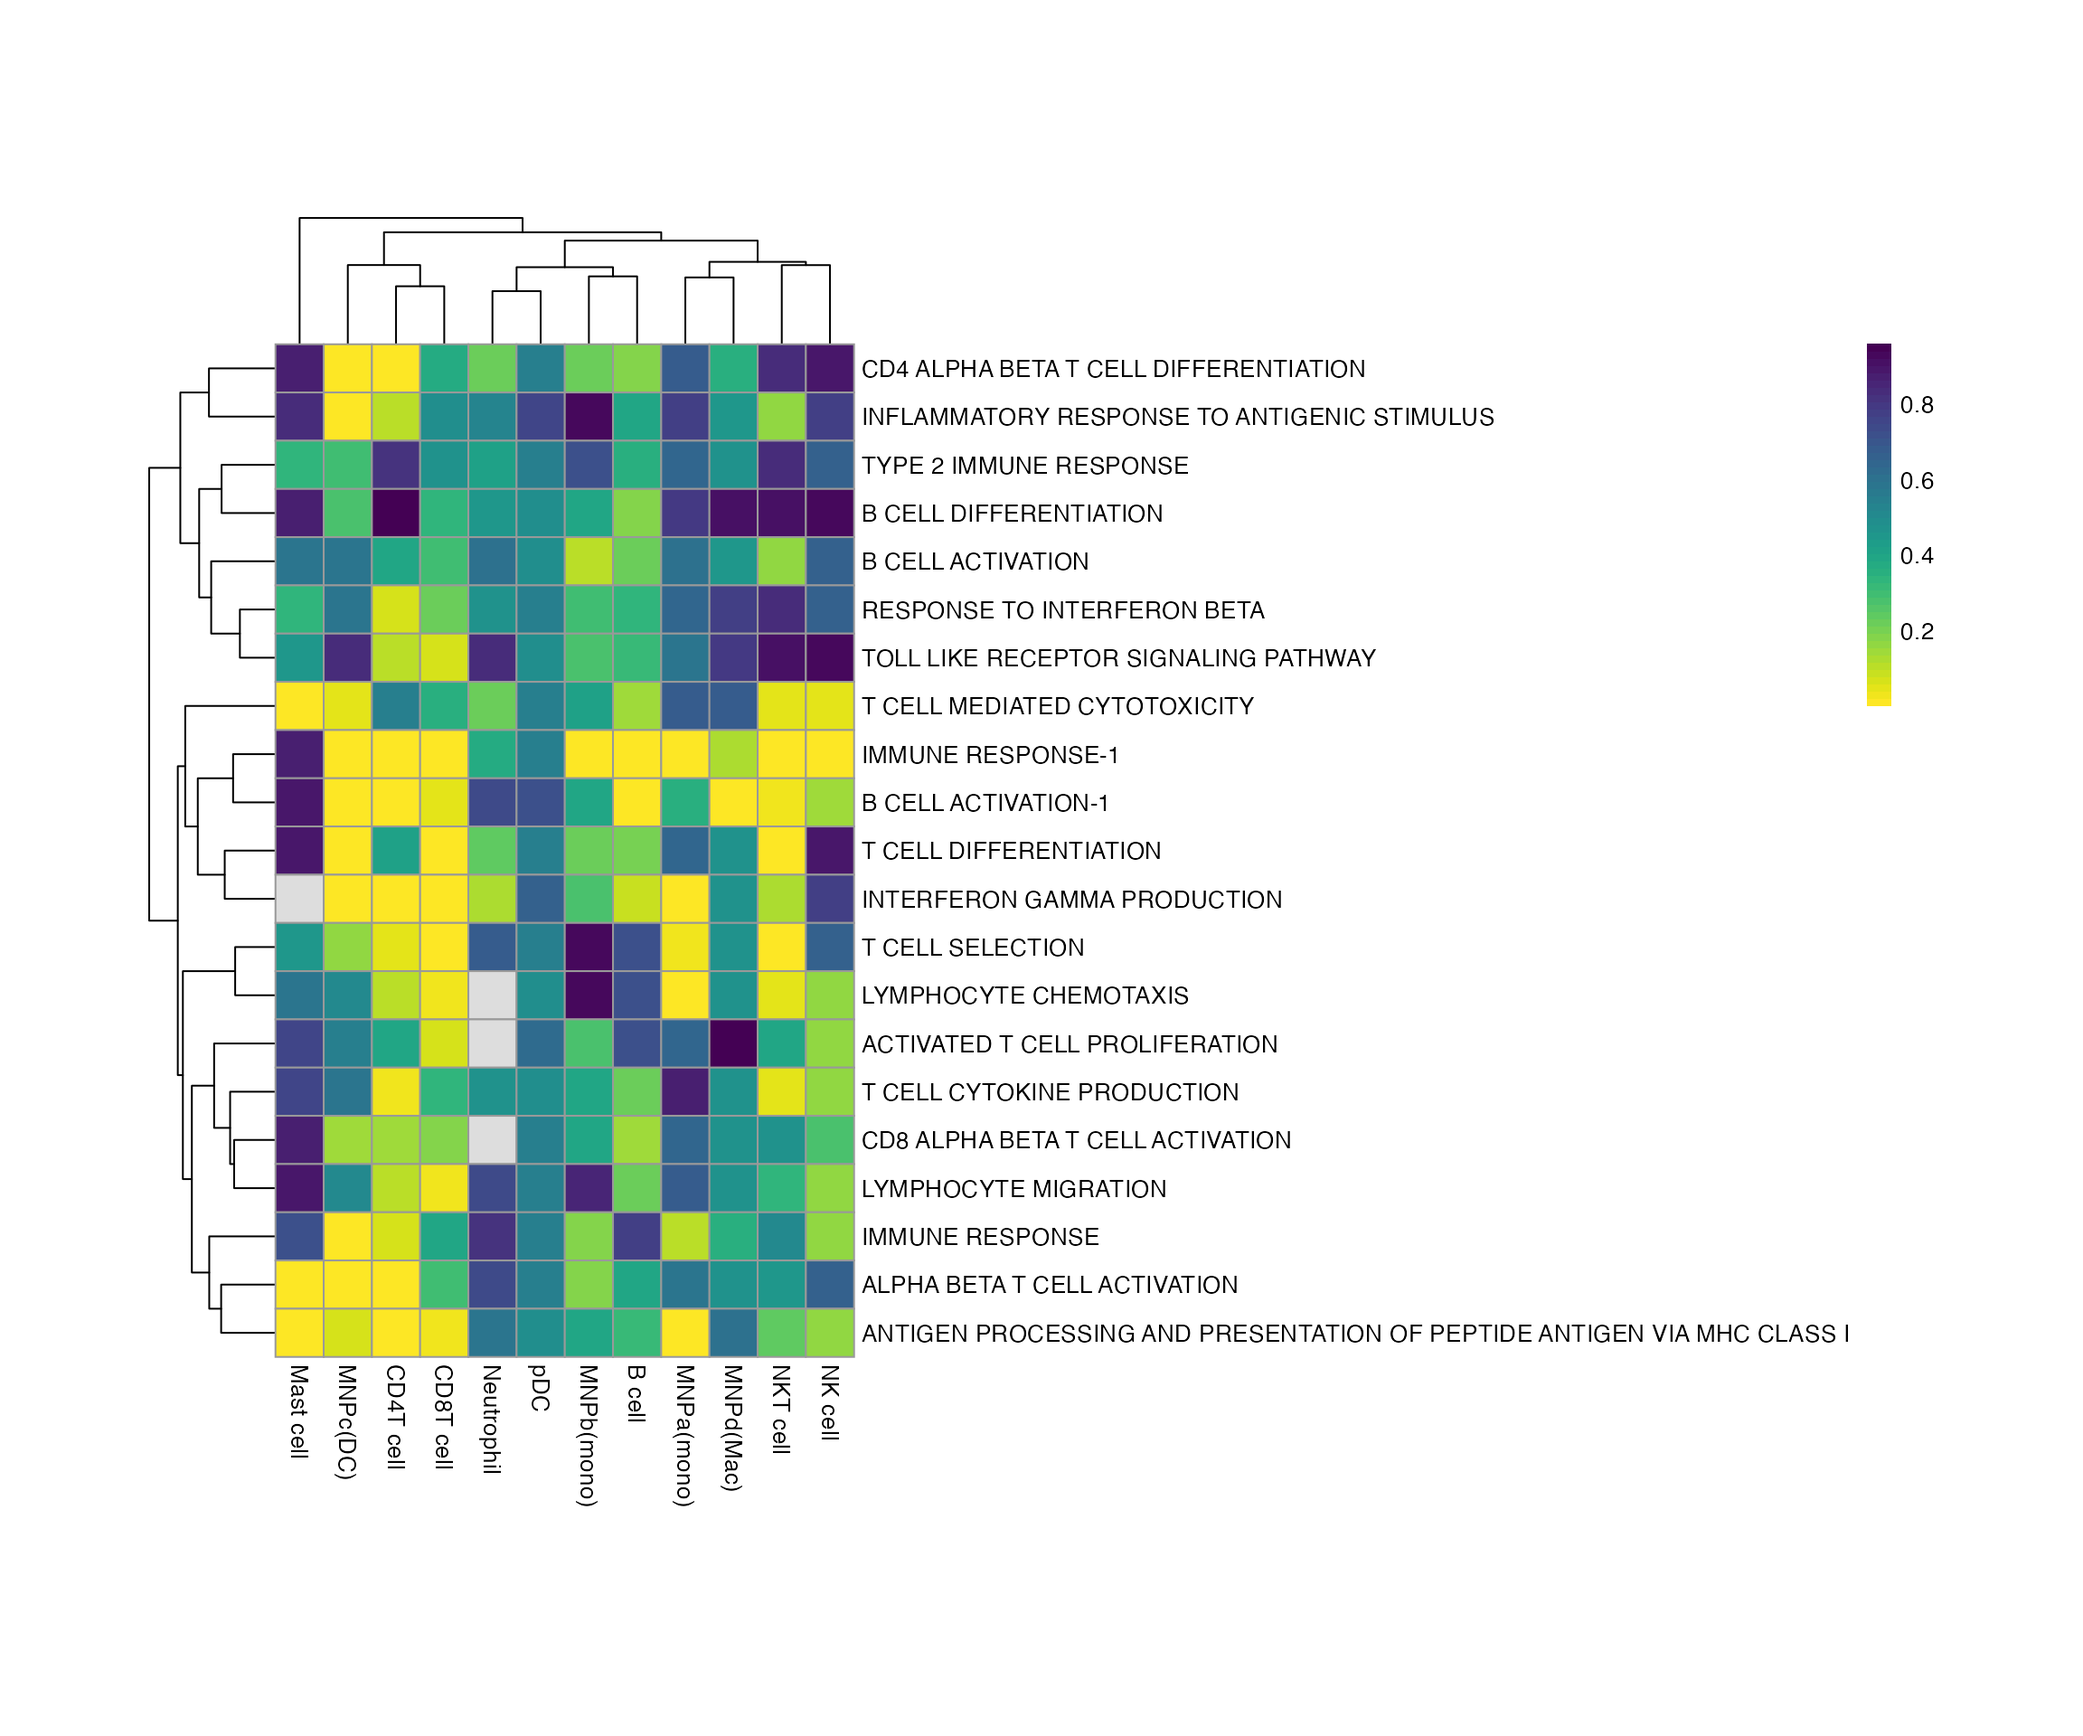
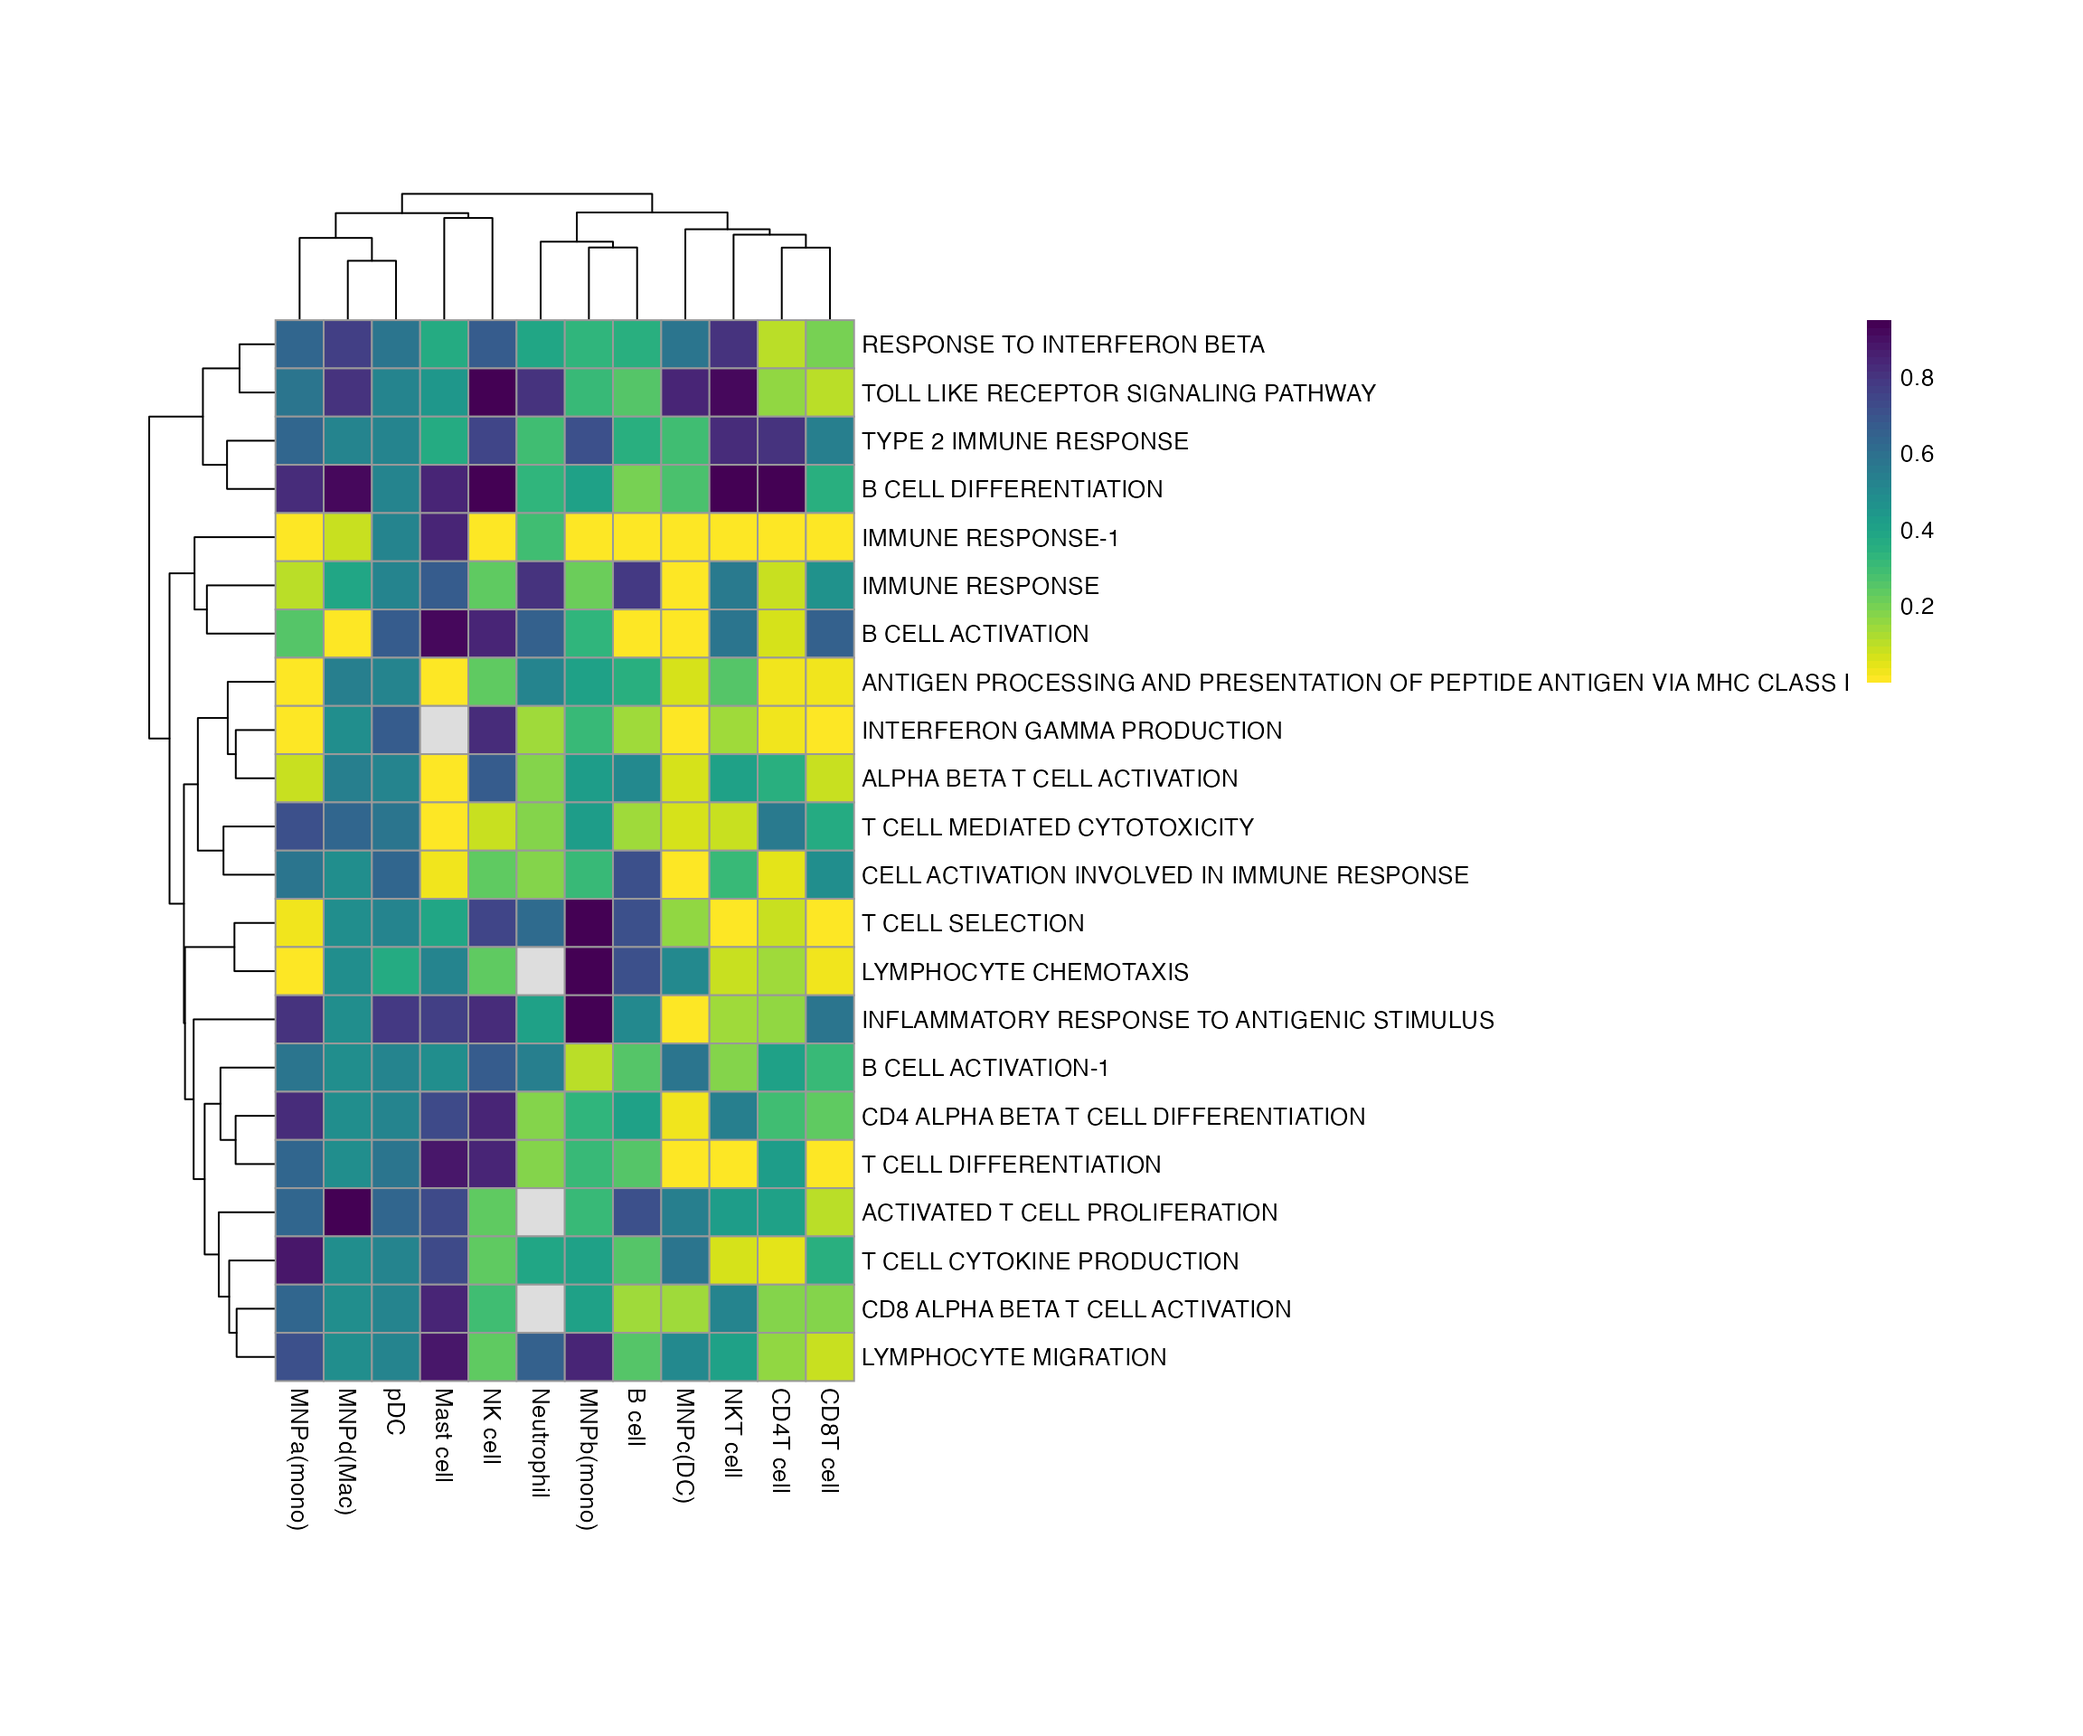
Built site for bowerbird: 0.0.2@6b26e6f

diff --git a/articles/bowerbird_vignette.html b/articles/bowerbird_vignette.html
@@ -160,12 +160,12 @@
 <span class="va">bwr</span> <span class="op">&lt;-</span> <span class="fu"><a href="../reference/snn_graph.html">snn_graph</a></span><span class="op">(</span><span class="va">bwr</span><span class="op">)</span>
 <span class="va">bwr</span> <span class="op">&lt;-</span> <span class="fu"><a href="../reference/find_clusters.html">find_clusters</a></span><span class="op">(</span><span class="va">bwr</span><span class="op">)</span>
 <span class="va">bwr</span> <span class="op">&lt;-</span> <span class="fu">summarize_clusters</span><span class="op">(</span><span class="va">bwr</span><span class="op">)</span>
-<span class="co">#&gt; Downloading udpipe model from https://raw.githubusercontent.com/jwijffels/udpipe.models.ud.2.5/master/inst/udpipe-ud-2.5-191206/english-ewt-ud-2.5-191206.udpipe to /var/folders/24/8k48jl6d249_n_qfxwsl6xvm0000gn/T//RtmpTWtwR1/english-ewt-ud-2.5-191206.udpipe</span>
+<span class="co">#&gt; Downloading udpipe model from https://raw.githubusercontent.com/jwijffels/udpipe.models.ud.2.5/master/inst/udpipe-ud-2.5-191206/english-ewt-ud-2.5-191206.udpipe to /var/folders/24/8k48jl6d249_n_qfxwsl6xvm0000gn/T//Rtmpd1BMoC/english-ewt-ud-2.5-191206.udpipe</span>
 <span class="co">#&gt;  - This model has been trained on version 2.5 of data from https://universaldependencies.org</span>
 <span class="co">#&gt;  - The model is distributed under the CC-BY-SA-NC license: https://creativecommons.org/licenses/by-nc-sa/4.0</span>
 <span class="co">#&gt;  - Visit https://github.com/jwijffels/udpipe.models.ud.2.5 for model license details.</span>
 <span class="co">#&gt;  - For a list of all models and their licenses (most models you can download with this package have either a CC-BY-SA or a CC-BY-SA-NC license) read the documentation at ?udpipe_download_model. For building your own models: visit the documentation by typing vignette('udpipe-train', package = 'udpipe')</span>
-<span class="co">#&gt; Downloading finished, model stored at '/var/folders/24/8k48jl6d249_n_qfxwsl6xvm0000gn/T//RtmpTWtwR1/english-ewt-ud-2.5-191206.udpipe'</span></code></pre></div>
+<span class="co">#&gt; Downloading finished, model stored at '/var/folders/24/8k48jl6d249_n_qfxwsl6xvm0000gn/T//Rtmpd1BMoC/english-ewt-ud-2.5-191206.udpipe'</span></code></pre></div>
 <p>Or extracting from <code>msigdbr</code>.</p>
 <div class="sourceCode" id="cb7"><pre class="downlit sourceCode r">
 <code class="sourceCode R"><span class="kw"><a href="https://rdrr.io/r/base/library.html">library</a></span><span class="op">(</span><span class="va"><a href="https://igordot.github.io/msigdbr/">msigdbr</a></span><span class="op">)</span>
@@ -181,52 +181,53 @@
 <span class="va">bwr</span> <span class="op">&lt;-</span> <span class="fu"><a href="../reference/snn_graph.html">snn_graph</a></span><span class="op">(</span><span class="va">bwr</span><span class="op">)</span>
 <span class="va">bwr</span> <span class="op">&lt;-</span> <span class="fu"><a href="../reference/find_clusters.html">find_clusters</a></span><span class="op">(</span><span class="va">bwr</span><span class="op">)</span>
 <span class="va">bwr</span> <span class="op">&lt;-</span> <span class="fu">summarize_clusters</span><span class="op">(</span><span class="va">bwr</span><span class="op">)</span>
-<span class="co">#&gt; Downloading udpipe model from https://raw.githubusercontent.com/jwijffels/udpipe.models.ud.2.5/master/inst/udpipe-ud-2.5-191206/english-ewt-ud-2.5-191206.udpipe to /var/folders/24/8k48jl6d249_n_qfxwsl6xvm0000gn/T//RtmpTWtwR1/english-ewt-ud-2.5-191206.udpipe</span>
+<span class="co">#&gt; Downloading udpipe model from https://raw.githubusercontent.com/jwijffels/udpipe.models.ud.2.5/master/inst/udpipe-ud-2.5-191206/english-ewt-ud-2.5-191206.udpipe to /var/folders/24/8k48jl6d249_n_qfxwsl6xvm0000gn/T//Rtmpd1BMoC/english-ewt-ud-2.5-191206.udpipe</span>
 <span class="co">#&gt;  - This model has been trained on version 2.5 of data from https://universaldependencies.org</span>
 <span class="co">#&gt;  - The model is distributed under the CC-BY-SA-NC license: https://creativecommons.org/licenses/by-nc-sa/4.0</span>
 <span class="co">#&gt;  - Visit https://github.com/jwijffels/udpipe.models.ud.2.5 for model license details.</span>
 <span class="co">#&gt;  - For a list of all models and their licenses (most models you can download with this package have either a CC-BY-SA or a CC-BY-SA-NC license) read the documentation at ?udpipe_download_model. For building your own models: visit the documentation by typing vignette('udpipe-train', package = 'udpipe')</span>
-<span class="co">#&gt; Downloading finished, model stored at '/var/folders/24/8k48jl6d249_n_qfxwsl6xvm0000gn/T//RtmpTWtwR1/english-ewt-ud-2.5-191206.udpipe'</span></code></pre></div>
+<span class="co">#&gt; Downloading finished, model stored at '/var/folders/24/8k48jl6d249_n_qfxwsl6xvm0000gn/T//Rtmpd1BMoC/english-ewt-ud-2.5-191206.udpipe'</span></code></pre></div>
 <p>So what has actually happened? Well, basically <code>bowerbird</code> has learnt which gene sets share more genes with each other, clustered them together and learnt a new summary term.</p>
 <div class="sourceCode" id="cb8"><pre class="downlit sourceCode r">
 <code class="sourceCode R"><span class="va">bwr</span>
 <span class="co">#&gt; BOWER class</span>
 <span class="co">#&gt; number of genesets:  265 </span>
 <span class="co">#&gt; genesets kNN Graph: </span>
-<span class="co">#&gt; IGRAPH a646756 UNW- 265 843 -- </span>
+<span class="co">#&gt; IGRAPH 7fb2d32 UNW- 265 843 -- </span>
 <span class="co">#&gt; + attr: name (v/c), cluster (v/n), geneset_size (v/n), terms (v/c),</span>
 <span class="co">#&gt; | labels (v/c), weight (e/n)</span>
-<span class="co">#&gt; + edges from a646756 (vertex names):</span>
+<span class="co">#&gt; + edges from 7fb2d32 (vertex names):</span>
 <span class="co">#&gt; [1] GOBP_ACTIVATED_T_CELL_PROLIFERATION--GOBP_CD8_POSITIVE_ALPHA_BETA_T_CELL_DIFFERENTIATION          </span>
 <span class="co">#&gt; [2] GOBP_ACTIVATED_T_CELL_PROLIFERATION--GOBP_NEGATIVE_REGULATION_OF_ACTIVATED_T_CELL_PROLIFERATION   </span>
 <span class="co">#&gt; [3] GOBP_ACTIVATED_T_CELL_PROLIFERATION--GOBP_NEGATIVE_REGULATION_OF_LYMPHOCYTE_DIFFERENTIATION       </span>
 <span class="co">#&gt; [4] GOBP_ACTIVATED_T_CELL_PROLIFERATION--GOBP_NEGATIVE_REGULATION_OF_T_CELL_RECEPTOR_SIGNALING_PATHWAY</span>
 <span class="co">#&gt; [5] GOBP_ACTIVATION_OF_IMMUNE_RESPONSE --GOBP_ACTIVATION_OF_INNATE_IMMUNE_RESPONSE                    </span>
 <span class="co">#&gt; + ... omitted several edges</span>
-<span class="co">#&gt; number of geneset clusters:  21 </span>
+<span class="co">#&gt; number of geneset clusters:  22 </span>
 <span class="co">#&gt; Core genes:</span>
 <span class="co">#&gt;  First six genes shown</span>
 <span class="co">#&gt;   IMMUNE RESPONSE-1 : AIM2 BCL10 BTRC CARD11 CARD9 CD209 ...</span>
-<span class="co">#&gt;   CD4 ALPHA BETA T CELL DIFFERENTIATION : ANXA1 ATP7A BATF BCL3 BCL6 CBFB ...</span>
 <span class="co">#&gt;   TYPE 2 IMMUNE RESPONSE : IL4 PLCL2 TLR4 IL18 IL18R1 IL4R ...</span>
 <span class="co">#&gt;   IMMUNE RESPONSE : CLNK HLA-E HLA-F IFNA2 IFNB1 IL18 ...</span>
+<span class="co">#&gt;   B CELL ACTIVATION-1 : ADA BAX BCL6 BLK BTK CD74 ...</span>
 <span class="co">#&gt;   RESPONSE TO INTERFERON BETA : BCL2L11 HIF1A MEF2C ADA SOS1 SOS2 ...</span>
-<span class="co">#&gt;   B CELL ACTIVATION : ADA BAX BCL6 BLK BTK CD74 ...</span>
 <span class="co">#&gt;   T CELL MEDIATED CYTOTOXICITY : HLA-A HLA-B HLA-C HLA-E HLA-F HLA-G ...</span>
 <span class="co">#&gt;   CD8 ALPHA BETA T CELL ACTIVATION : HLA-E GATA3 ADCYAP1 BTK C3 CCR7 ...</span>
+<span class="co">#&gt;   CD4 ALPHA BETA T CELL DIFFERENTIATION : ANXA1 ATP7A BATF BCL3 BCL6 CBFB ...</span>
 <span class="co">#&gt;   T CELL DIFFERENTIATION : FCGR2B FGL2 HLA-DOA LILRB2 THBS1 BMP4 ...</span>
 <span class="co">#&gt;   INTERFERON GAMMA PRODUCTION : ABCB9 ACE ACTR10 ACTR1A ACTR1B AP1B1 ...</span>
 <span class="co">#&gt;   TOLL LIKE RECEPTOR SIGNALING PATHWAY : CACTIN PTPRS TICAM1 TLR3 TLR4 TLR9 ...</span>
 <span class="co">#&gt;   T CELL CYTOKINE PRODUCTION : KLRC1 LILRB1 NOD2 PTPRC EGR3 LEF1 ...</span>
 <span class="co">#&gt;   B CELL DIFFERENTIATION : IL10 TLR9 SYK ADA BCL3 C17orf99 ...</span>
 <span class="co">#&gt;   T CELL SELECTION : TOX BCL2 BATF CTSL FOXP3 IL12B ...</span>
-<span class="co">#&gt;   ALPHA BETA T CELL ACTIVATION : AGER ANXA1 ARG2 ATP7A BATF BCL3 ...</span>
-<span class="co">#&gt;   ACTIVATED T CELL PROLIFERATION : LILRB4 CD24 CD274 FYN HHLA2 ICOSLG ...</span>
 <span class="co">#&gt;   LYMPHOCYTE CHEMOTAXIS : CCL2 CCL3 CCL4 CCL5 CCL7 CXCL14 ...</span>
-<span class="co">#&gt;   B CELL ACTIVATION-1 : BATF BCL3 BCL6 BTK C17orf99 CCR6 ...</span>
+<span class="co">#&gt;   ACTIVATED T CELL PROLIFERATION : LILRB4 CD24 CD274 FYN HHLA2 ICOSLG ...</span>
+<span class="co">#&gt;   B CELL ACTIVATION : ADA ADAM17 BATF BCL3 BCL6 BTK ...</span>
+<span class="co">#&gt;   ALPHA BETA T CELL ACTIVATION : AGER ANXA1 ARG2 ATP7A BATF BCL3 ...</span>
 <span class="co">#&gt;   INFLAMMATORY RESPONSE TO ANTIGENIC STIMULUS : BTK C3 CD28 HLA-E LTA NOD2 ...</span>
+<span class="co">#&gt;   ANTIGEN PROCESSING AND PRESENTATION OF PEPTIDE ANTIGEN VIA MHC CLASS I : ABCB9 AZGP1 B2M ERAP1 ERAP2 HFE ...</span>
 <span class="co">#&gt;   LYMPHOCYTE MIGRATION : ADAM10 ADAM17 ADAM8 AIF1 APP CCL20 ...</span>
-<span class="co">#&gt;   ANTIGEN PROCESSING AND PRESENTATION OF PEPTIDE ANTIGEN VIA MHC CLASS I : ABCB9 AZGP1 B2M ERAP1 ERAP2 HFE ...</span></code></pre></div>
+<span class="co">#&gt;   CELL ACTIVATION INVOLVED IN IMMUNE RESPONSE : ABL1 ADA ANXA1 AP1G1 APBB1IP ATP7A ...</span></code></pre></div>
 <p>We can visualise it with a simple plot</p>
 <div class="sourceCode" id="cb9"><pre class="downlit sourceCode r">
 <code class="sourceCode R"><span class="fu"><a href="../reference/plot_graph.html">plot_graph</a></span><span class="op">(</span><span class="va">bwr</span>, colorby <span class="op">=</span> <span class="st">'cluster'</span>, node.size <span class="op">=</span> <span class="st">'geneset_size'</span><span class="op">)</span></code></pre></div>
